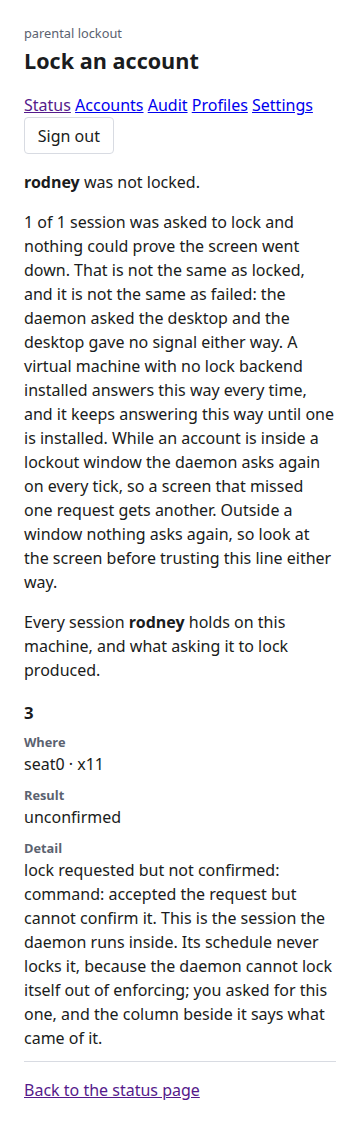
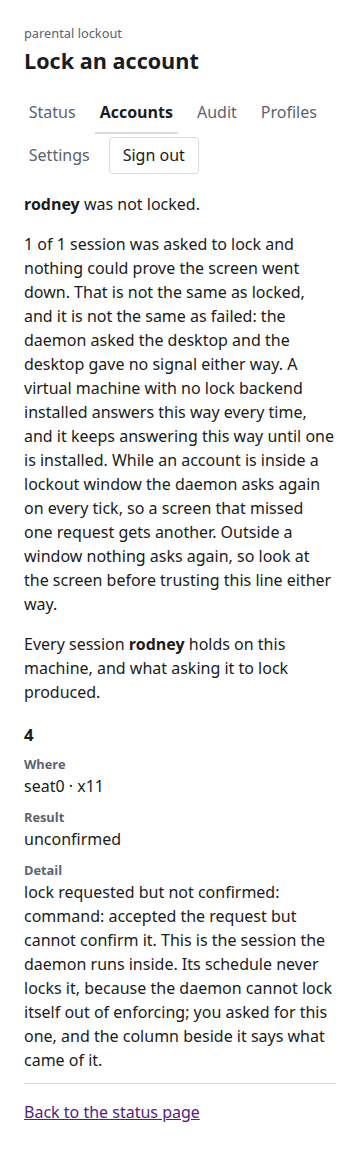
chore(capture): re-photograph the nine frames against the merged masthead and navigation
D-0036 staged `main`'s nine frames and said out loud that they were not evidence for this tree. This
is the set that is: every frame re-taken against the merged `page.tmpl` and `app.css`, recorded once,
with all nine `--shot` names and all four fixture envs -- the only form of `record` that can say which
frames a run photographed.

Eight of the nine grew by exactly 22 px at 360 px: 1386/1305/3785/3921/3107/3711/1142/1013 became
1408/1327/3807/3943/3129/3733/1164/1035. The arithmetic says why, so nobody has to wonder at it. This
branch's previous set was its predecessor plus 21 px, because the nav entries became boxes with .45rem
of padding (a2ccac0, D-0035); `main`'s masthead adds the demoted product line above the heading,
another 22 px. Both halves of the merge are in the pixels. The ninth is `users-no-profiles.png`, 900 px
at both viewports: the empty state is a page whose height is the viewport's minimum, so the two lines
it gained sit inside slack the document height never shows -- and its bytes still differ from `main`'s,
which is why the set is named to `record` rather than inferred from whichever frames happened to move.

All nine FIT at 360 px and every one printed its #204 census with the section named:
`nav=5 links marked=Status|Accounts|Profiles|Audit|Settings` across the five GET pages, and
`marked=Accounts` on the two POST verdict pages -- `/users/<name>/lock-now` and
[…]

diff --git a/DECISIONS.md b/DECISIONS.md
@@ -1159,3 +1159,80 @@ Three consequences, all deliberate, and the third is no longer a prediction:
   `EXPECTED_RULES` 58), testing/capture/{cdp,lock,manifest}.py and the fixtures (main's versions with
   this branch's navigation guards beside them), docs/screenshots/360/ (main's nine staged, re-taken in
   the next commit)
+
+## D-0037 · The set is re-taken rather than re-dated, because a re-dated frame cannot be seen to be wrong
+
+- Question: D-0036 committed `main`'s nine frames with `manifest.py check` refusing on all nine and
+  promised a re-take against the merged tree. The run happened, and then the merge commit was amended
+  to add one sentence to this file's preamble about the ids those commits cite -- so the commit the
+  frames had just been stamped against, `f033291`, stopped existing and `HEAD` became `cf26e50`. Does
+  the set go in recorded against a commit that is gone, with the gate red, or does something else
+  happen?
+- Options: keep the first record and ship the red gate | reset the branch to `f033291` so the
+  recording names a commit that exists again | re-run `record` over the bytes the first run
+  photographed, on the strength of a `git diff` showing the two merge commits differ in prose only |
+  re-take all nine from the fixture setups onward and record once | re-take only the frames whose
+  bytes moved
+- Chose: re-take all nine from the fixture setups onward and record once
+- Why: option one is refused on measurement, not on tidiness. `Makefile:90` runs `manifest.py check`
+  inside `verify`, and at the merge commit the check printed nine problems and exit 1 -- `audit.png
+  predates the newest change to /audit's sources ... the manifest was taken at d1ee983743fd...,
+  internal/web/templates/audit.tmpl (or the shared shell) has moved to f0332913b315...`. D-0036 accepted
+  that
+  red for the merge commit on the ground that a merge is a merge and its tree is not a render of
+  anything; the red was always meant to end in the next commit, and shipping it would hand the
+  supervisor a branch it reads as not-green. Option two buys a true `sources_rev` by deleting the
+  caveat the amendment added -- that sentence is the only place in the tree mapping the ids those
+  commits cite -- and it buys it with a rewrite of a branch `origin` already carries part of, which
+  this repository answers with revert, never rewrite.
+  Option three is the one with a real argument, and it is the one refused. The argument is honest:
+  `git diff --name-only f033291 cf26e50` was run and returned `DECISIONS.md` alone, so nothing the
+  browser could have drawn moved between the two commits, and D-0024's provenance paragraph is exactly
+  this kind of reasoning. It loses because it asks the reader to trust a diff in place of the artifact.
+  `record` writes `sources_rev = newest_commit(sources)` from the commit and the clock and never asks
+  the pixels what page they show, and `check`'s drift arm opens `if recorded == current: continue` --
+  so the equality the recorder mints is the same equality the gate reads, and a re-dated frame cannot
+  be seen to be wrong. That is not a hypothetical here: on 6 Nov, in a scratch copy of the committed
+  directory holding `main`'s `audit.png` -- a photograph of an `MST` cell the branch had just deleted
+  -- one bare `record` answered `9 photographs current`, rc 0 (D-0030). A re-record justified by a
+  command the reader has to re-run is the weaker claim when the honest one costs twenty-one seconds:
+  the whole nine-fixture run below ran 16:33:49 to 16:34:09.
+  Option five is refused by this branch's own history. `record()` walks the PNGs sitting in its target
+  directory and cannot know which ones this run took, so a partial re-take stamps the frames it never
+  touched as just-taken -- measured 5 Nov, reported as 9 current while `lock.png` and `testlock.png`
+  were byte-for-byte the previous files (D-0017's finding (1), #222). The nine `--shot` names are the
+  only input that says what a run photographed, and they are worth nothing unless the run really took
+  the set it names. The tie-break order agrees with the rest of this file: nothing separates on
+  `go.mod` (no option adds a dependency), on breadth four beats three beats five, and "refuses rather
+  than proceeds" picks four for the same reason D-0015 and D-0024 picked the re-take -- a screenshot
+  the driver in the same commit cannot reproduce is not evidence.
+  The measurement then confirmed the choice instead of decorating it. Every one of the nine frames from
+  this run is byte-identical to the frame the 16:17 run wrote -- `cmp` over all nine, all nine
+  identical, four fixtures re-seeded and two separate Chrome rounds in between. That is the property the
+  refused re-record could only argue for: two shutters, one digest set, so the pixels are a property of
+  `cf26e506`'s tree and not of either run that happened to take them.
+- What this costs, stated rather than glossed. (1) The manifest on this branch is rewritten twice
+  inside twenty minutes and the history shows the churn with nothing in the log to explain it until
+  this entry; an intermediate `captured_at` of `16:32:35Z` existed for a few minutes and appears in no
+  commit. (2) `head` in the manifest now reads `21c1ecf1`, the checkpoint below, because `record()`
+  stamps `git rev-parse HEAD` -- an empty commit that rendered nothing. Its tree is identical to the
+  merge's (`git diff --name-only cf26e50 21c1ecf1` prints nothing), and every page's `sources_rev`
+  names `cf26e506`, the commit whose bytes the browser actually drew, so the field the gate compares
+  and the field a human audits are both right and it is `head`, which nobody reads as provenance, that
+  is loose. D-0021's shape one notch milder. (3) `captured_at` is still one field for nine frames, the
+  wart D-0015 put on the record and this entry widens again: `16:34:09Z` against shutters at
+  16:33:57Z to 16:34:07Z. Twelve seconds of slop where the re-record would have shipped fifteen
+  minutes. (4) Two Chrome rounds and four fixture re-seeds to prove a point one `git diff` already
+  proved, paid for in wall clock and in the small risk that the second run disagrees with the first --
+  which is the point of paying it, and it did not.
+  One consequence worth naming before someone else finds it: all nine rows now carry
+  `capture.scripts: off`, including `lock.png` and `testlock.png`, which `main` committed with page
+  scripts running. That is #213's standing objection to the committed set, satisfied here as a
+  side-effect of re-taking everything; #213 stays open, because what the other branches' artifacts
+  show is still that issue's to audit.
+- Checkpoint: 21c1ecf1990fa5b431a769ae4a089141b34f0405
+- Effect: docs/screenshots/360/audit.png, dashboard.png, users.png, users-no-profiles.png,
+  profiles.png, profiles-refused.png, settings.png, lock.png, testlock.png (all nine re-photographed
+  against `cf26e506` at 360 px), docs/screenshots/360/manifest.json (`head`, `captured_at`, nine
+  `png_sha256`, nine `sources_rev` at `cf26e506`, nine `capture` blocks with `scripts: off` and their
+  own fixture envs), DECISIONS.md
